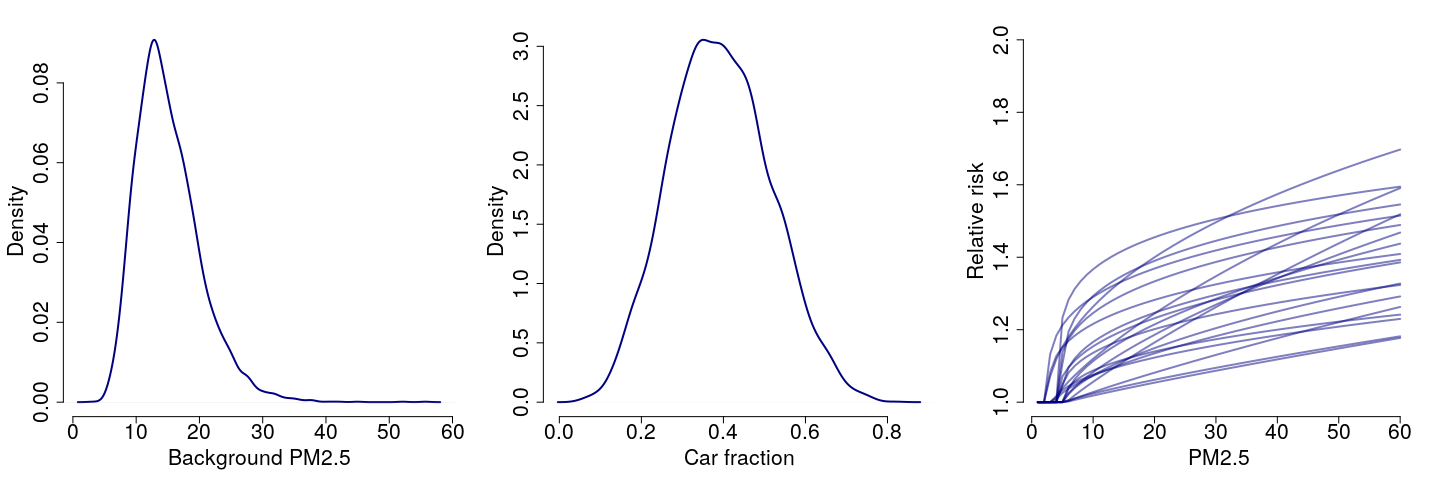
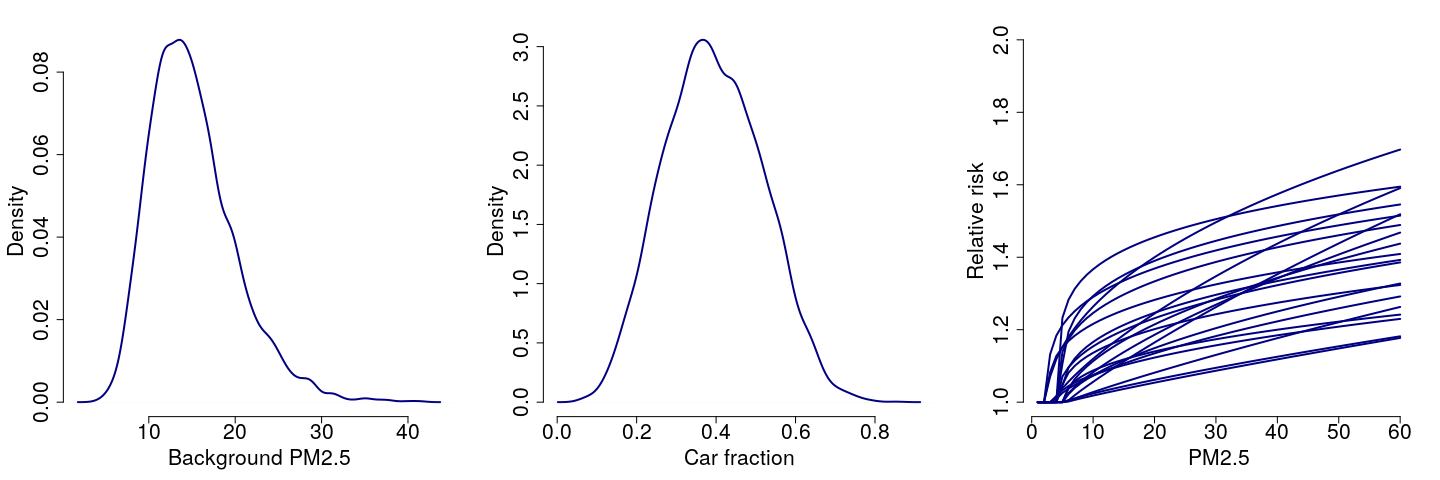
tornado

diff --git a/README.md b/README.md
@@ -3,9 +3,9 @@ Value of information
 
 Value of information (VOI) is a measure of how much one uncertain variable tells you about another uncertain variable. In health-impact modelling, where we have many inputs and an output of interest, we're interested in how much an uncertain input tells us about the uncertain output, so that we can anticipate how useful it would be to us to learn more about that input, particularly if there are many inputs we might consider learning about.
 
-The attached example computes the expected value of perfect partial information (EVPPI). That is, the value of learning a single parameter perfectly. In this example, there are three parameters, and we compare their EVPPI values.
+The attached example computes the expected value of perfect partial information (EVPPI). That is, the value of learning a single parameter perfectly. In this example, there are three parameters, and we compare their EVPPI values. This method is similar to sensitivity analyses such as tornado plots, where the influence of individual parameters on the outcome is estimated by considering the ranges in the outcome obtained when parameters are set to their 5th and 95th quantiles in turn.
 
-Other VOI metrics include the expected value of perfect information (EVPI), which is the value of learning all parameters perfectly, and the expected value of sample information (EVSI), which is the value of collecting data that informs knowledge of one parameter or more. Therefore, we have that EVSI ≤ EVPPI ≤ EVPI.
+Beyond EVPPI, other VOI metrics include the expected value of perfect information (EVPI), which is the value of learning all parameters perfectly, and the expected value of sample information (EVSI), which is the value of collecting data that informs knowledge of one parameter or more. Therefore, we have that EVSI ≤ EVPPI ≤ EVPI. The methods we present here are based on the theory published [here](https://www.tandfonline.com/doi/full/10.1080/01621459.2018.1562932), where the methods are presented formally and the connection to decision-making problems is made explicity in Sections 2.2, 2.3 and 2.4.
 
 This example
 ============
@@ -25,10 +25,32 @@ The distributions of expected health burdens in terms of incidence are
 
 So what are the parameters that we could most usefully learn to increase precision in our estimates for the two scenarios?
 
+Tornado plots
+-------------
+
+A traditional method to answer this question would be to use a tornado plot, where we fix all the parameters except one to the median, evaluate the outcome for the 5th and 95th quantiles of the one parameters, repeat for all parameters, and compare the ranges in outcomes from each parameter range. The quantiles of our parameters are shown below:
+
+|       |    5%|    50%|    95%|
+|:------|-----:|------:|------:|
+| x1    |  8.40|  14.39|  24.38|
+| x2    |  0.20|   0.39|   0.60|
+| alpha |  1.99|   3.32|  69.79|
+| beta  |  0.00|   0.01|   0.04|
+| gamma |  0.28|   0.44|   0.83|
+| tmrel |  2.60|   4.25|   5.68|
+
+Note that we have taken the quantiles for the four dose-response parameters, rather than for the curve they define.
+
+To demonstrate the tornado plot, we consider the case where travel increases:
+
+![](README_files/figure-markdown_github/tornado-1.png)
+
+However, while the plot is useful for the parameters we might be able to learn on their own, *x*<sub>1</sub> and *x*<sub>2</sub>, it is less useful for the parameters for the dose-response curve. This is because it's not the case that we could learn one parameter in particular. In addition, it's also not useful to take the 5th and 95th quantiles of *β*, say, while taking the 50th quantiles for the other parameters. This is because they have a joint density.
+
 EVPPI method
 ------------
 
-EVPPI is evaluated by regressing the outcome against each parameter in turn.
+Instead, with EVPPI, we can evaluate the impact of variability in parameters, whilst also considering the distributions of the other parameters. EVPPI is evaluated by regressing the outcome against each parameter in turn, or against a set of parameters.
 
 ``` r
 labels <- c('Background PM2.5','Car fraction','Dose-response estimate')
@@ -77,10 +99,10 @@ EVPPI result
 ------------
 
 |                        |  Scenario 1|  Scenario 2|
-|------------------------|-----------:|-----------:|
-| Background PM2.5       |         3.0|         3.3|
-| Car fraction           |        44.8|        41.2|
-| Dose-response estimate |        24.2|        41.2|
+|:-----------------------|-----------:|-----------:|
+| Background PM2.5       |         1.5|         2.2|
+| Car fraction           |        50.3|        42.1|
+| Dose-response estimate |        29.0|        41.8|
 
 ![](README_files/figure-markdown_github/plot-1.png)
 
